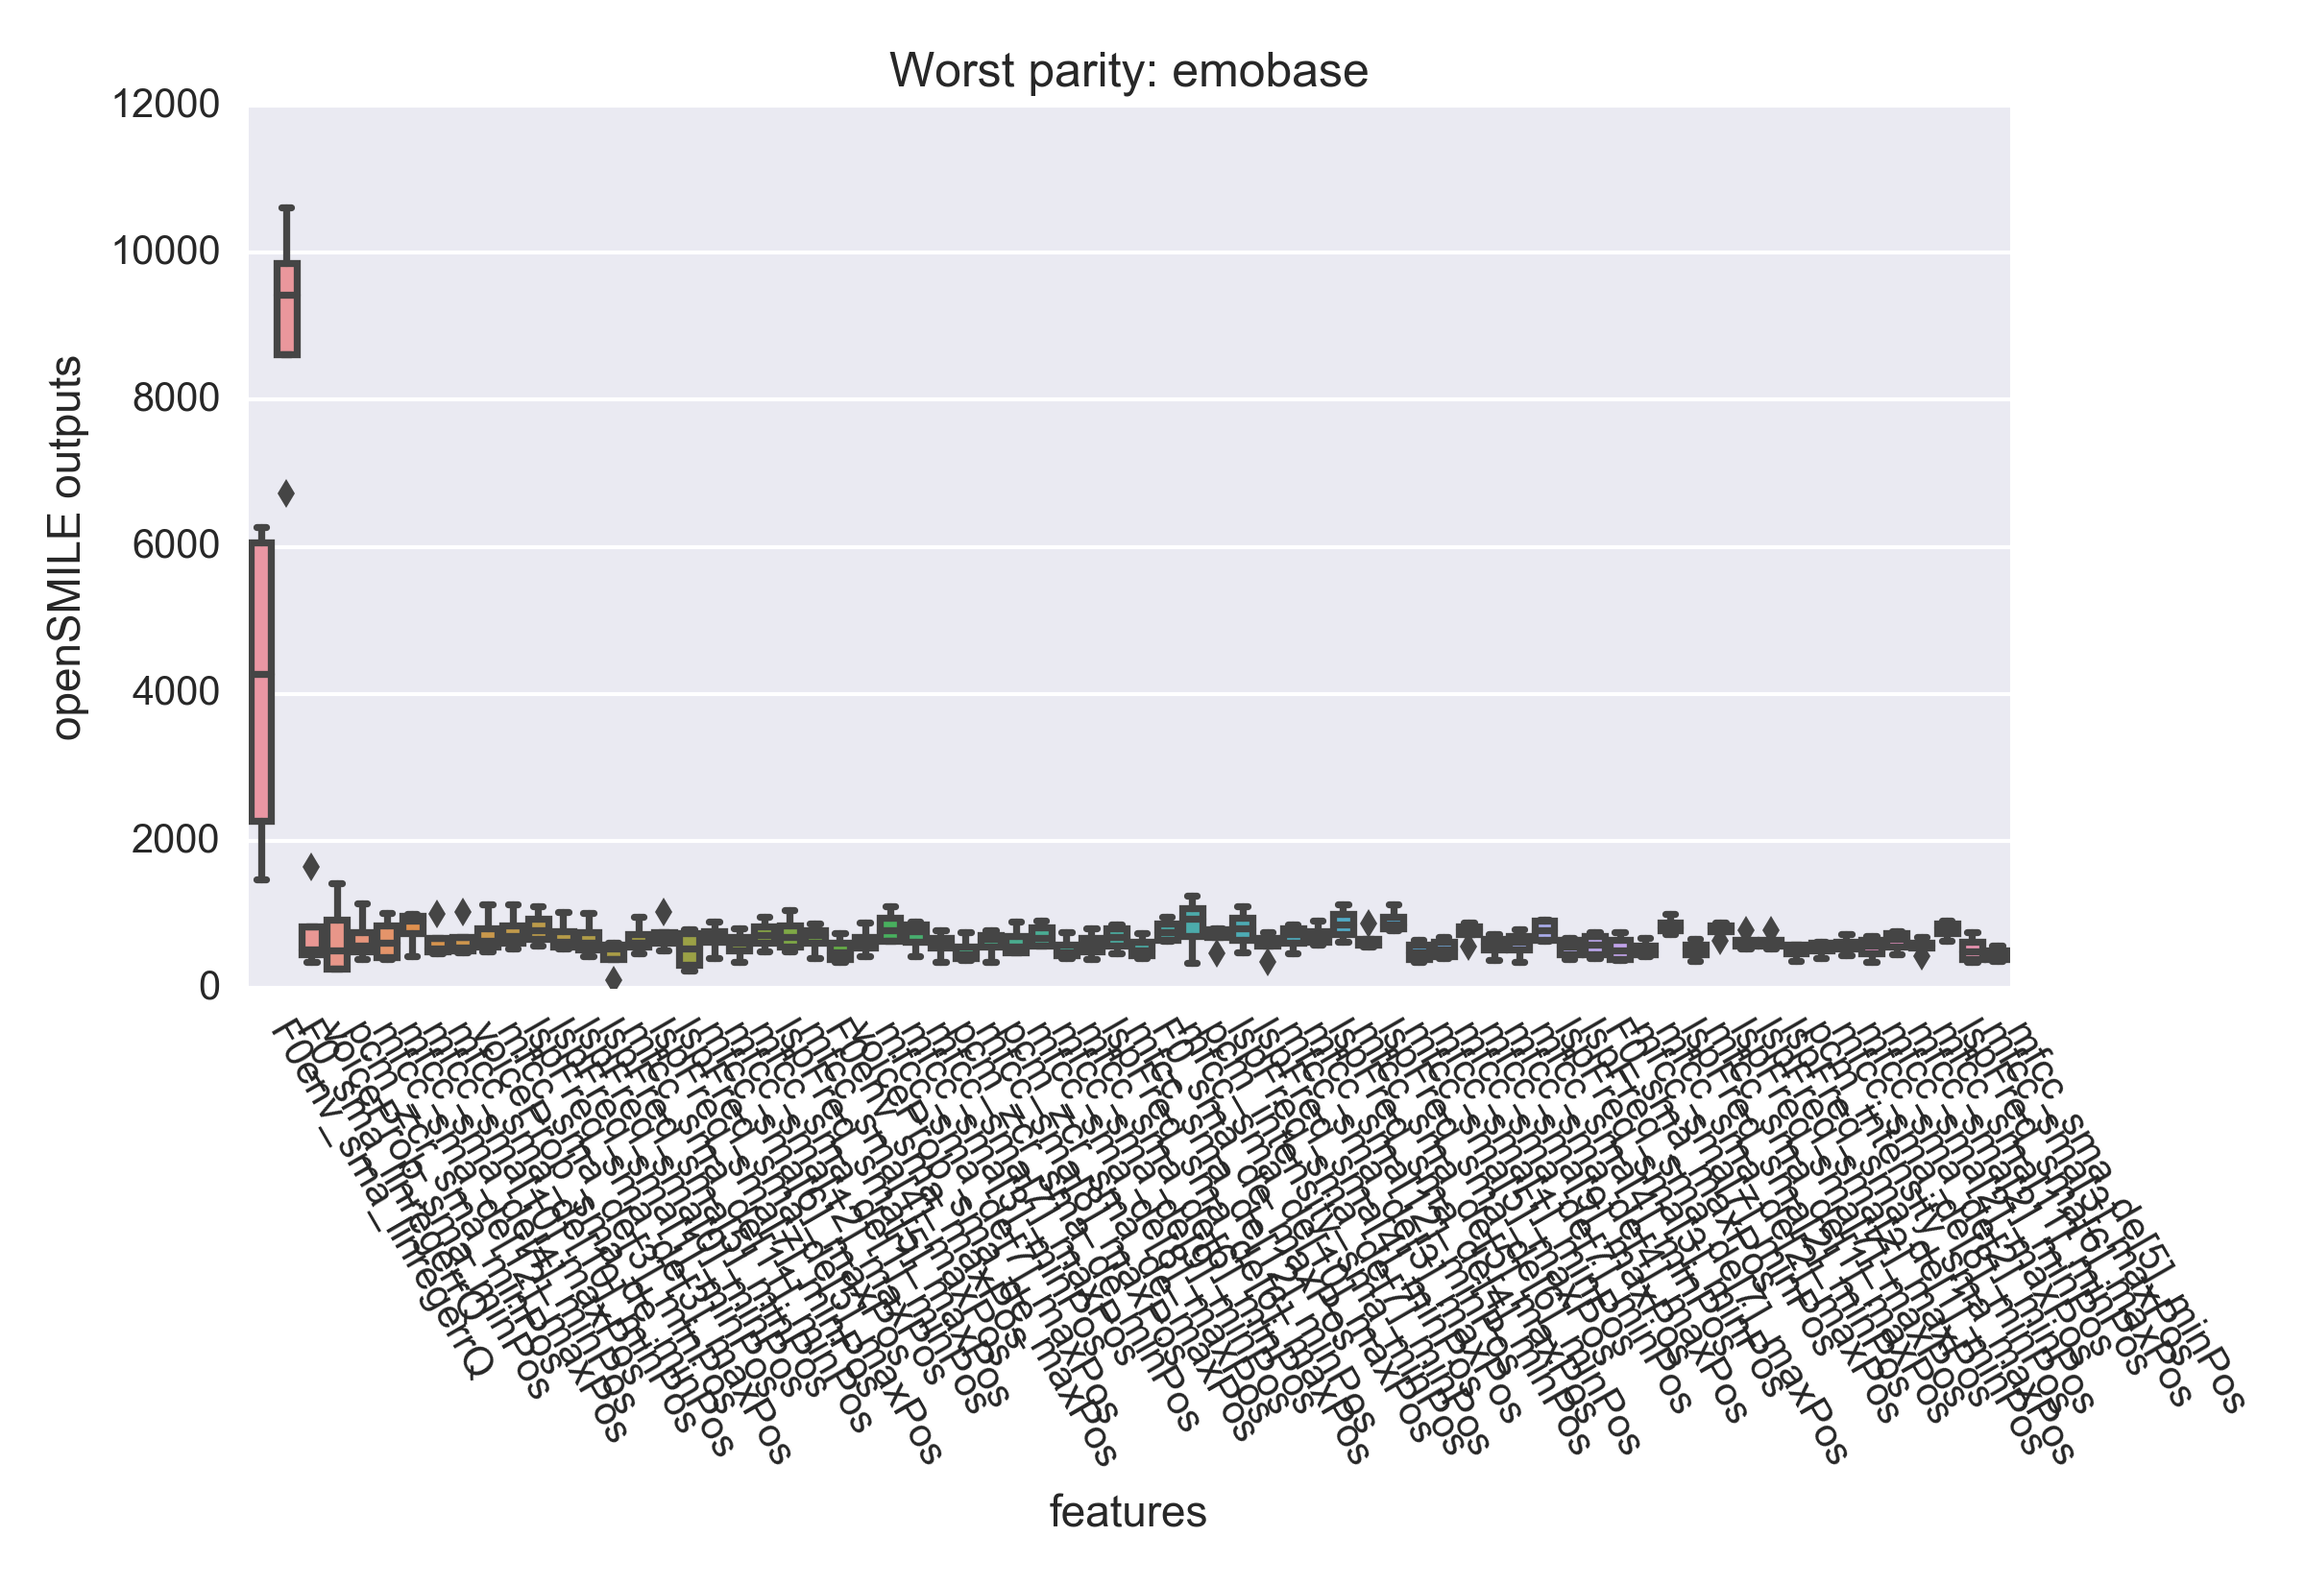
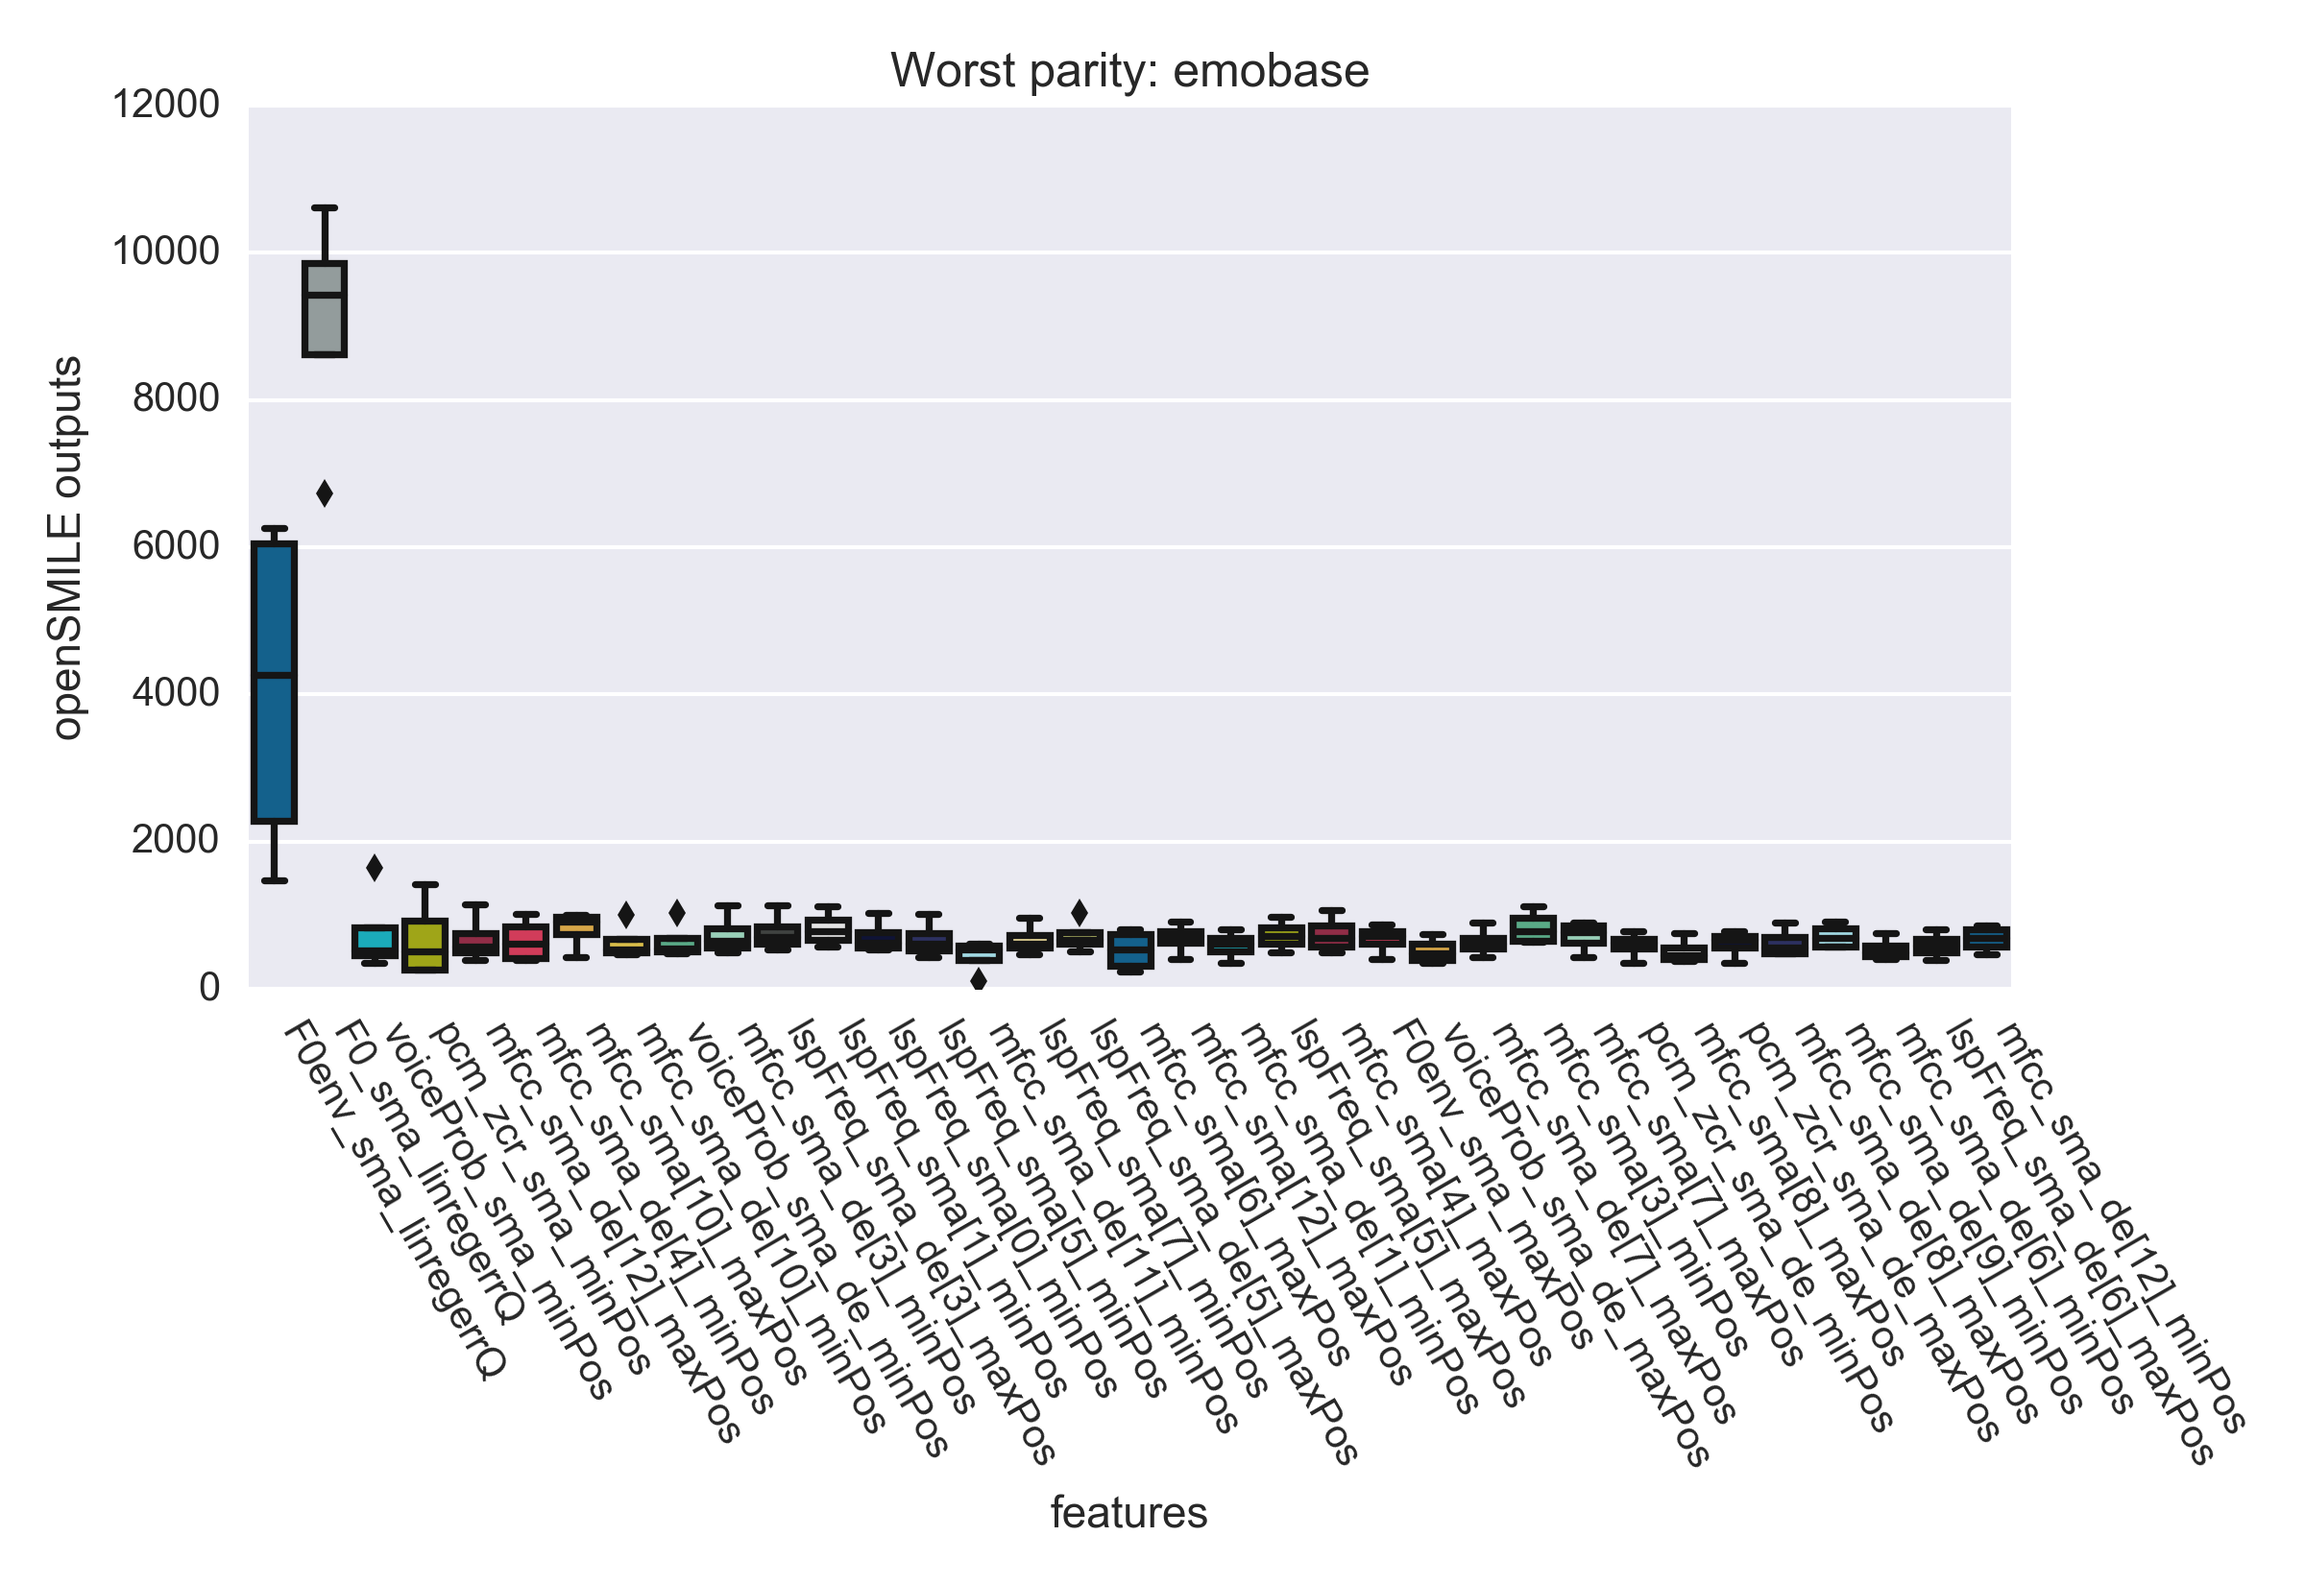
CMI colors

diff --git a/test_equipment/setup_box_plots.py b/test_equipment/setup_box_plots.py
@@ -15,6 +15,11 @@ import openSMILE_dir_to_csv as odtc, os, pandas as pd, matplotlib.pyplot as \
        plt, seaborn as sns, subprocess
 
 def plot(dataframe, directory):
+    cmi_colors = ["#0067a0", "#919d9d", "#00c1d5", "#b5bd00", "#a31c3f",
+                  "#ea234b", "#eeae30", "#f2cd32", "#4db789", "#90d9b9",
+                  "#404341", "#e4e4e4", "#090e3c", "#242a6a", "#97e2ef",
+                  "#f9e28a", "#d3da5f"]
+    sns.set_palette(cmi_colors)
     dataframe = dataframe.drop(['mean', 'median', 'std', 'mad'], axis=1)
     dataframe = dataframe.T
     indices = list(dataframe.index)
@@ -35,7 +40,7 @@ def plot(dataframe, directory):
     plt.figsize=(22,17)
     plt.dpi=200
     g = sns.boxplot(x="features", y="openSMILE outputs", data=
-        df_long.head(n=280))
+        df_long.head(n=140), palette=cmi_colors)
     plt.title(''.join(["Worst parity: ", os.path.basename(directory)]))
     plt.tight_layout()
     fig = g.get_figure()
@@ -43,7 +48,7 @@ def plot(dataframe, directory):
     plt.close()
 
 def main():
-    tippy_top = "/Users/jon.clucas/PMAV"
+    tippy_top = "PMAV"
     top_dirs = [os.path.join(tippy_top, "ComParE_2016"),
                 os.path.join(tippy_top, "emobase")]
     for directory in top_dirs:
@@ -55,4 +60,4 @@ def main():
         plot(odtc.oS_dir_to_csv(directory), directory)
 # ============================================================================
 if __name__ == '__main__':
-        main()
+    main()
